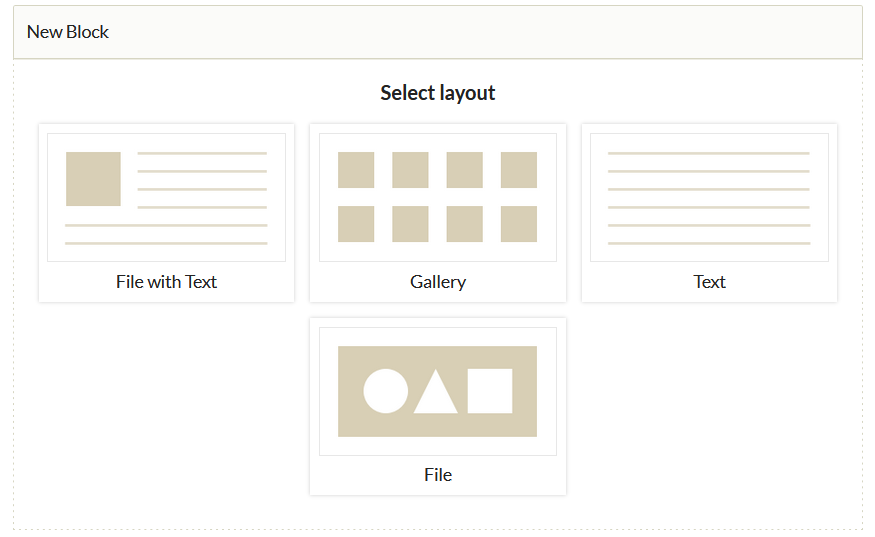
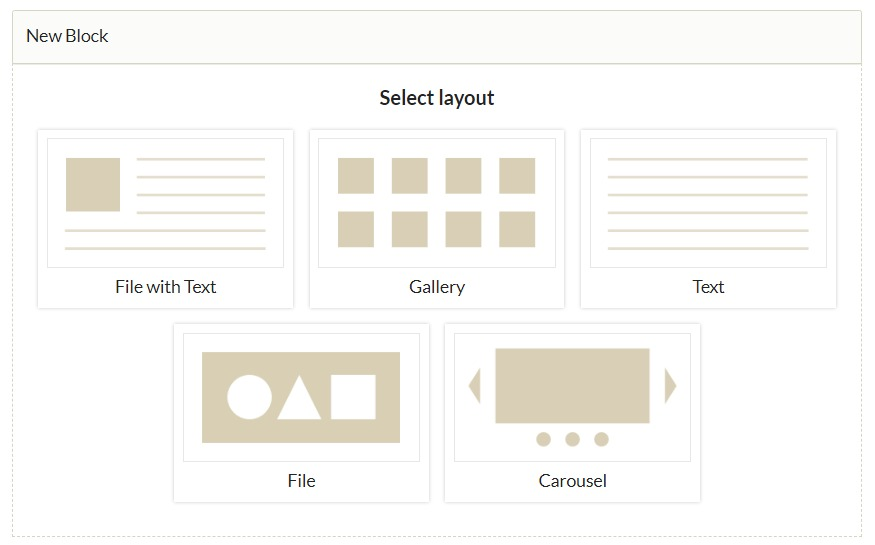
add carousel info to exhibit builder doc

diff --git a/docs/Plugins/ExhibitBuilder.md b/docs/Plugins/ExhibitBuilder.md
@@ -90,6 +90,8 @@ The **Text** block allows you to create a section of text which spans the width 
 
 The **File** block allows you to add larger files as a separate block.
 
+The **Carousel** block creates a slidehow of item files as thumbnails, square thumbnails, or as the full size file. You can pair the file with a caption and/or the item title, and text can be positioned left, right, or center. You can feature up to ten items per slide and adjust the scrolling speed and duration of the slides.
+
 ![Select block dialog with options as described above](../doc_files/plugin_images/eb_selectblock.png)
 
 To add a content block, select the layout you want in the New Block dialog box. Once you have selected the kind you want, click the "Add new content block" button. You will have a new block on the page to configure your content.
@@ -138,13 +140,13 @@ Exhibit text can be formatted using the [text editor bar](../Content/Using_HTML_
 
 ### Layout Options
 
-Both the File with Text and Gallery blocks include layout options to change the look of the exhibit page. To access these options, click the black triangle button to the right of the Layout Options text at the bottom of the block. This will reveal dropdown menus with options for changing the layout.
+The File with Text, Gallery, and Carousel blocks include layout options to change the look of the exhibit page. To access these options, click the black triangle button to the right of the Layout Options text at the bottom of the block. This will reveal dropdown menus with options for changing the layout.
 
 The **File with Text** block has the following options, all of which are drop-down menus (options listed in parentheses after the dropdown label):
 
-- File Position (left, right): position of the file relative to the text block.
-- File Size (full-size, thumbnail, square thumbnail): 
-- Captions position (center, left, right): the position of the file's caption relative to the file (not the text block)
+- File Position (left, right): a dropdown to select the position of the file relative to the text block.
+- File Size (full-size, thumbnail, square thumbnail): a dropdown to select the item file size.
+- Captions position (center, left, right): a dropdown to select the position of the file's caption relative to the file (not the text block)
 Whatever you select affects all of the files for that block equally. The text in this block will stay fixed to the right or left of the file, but will wrap below if the length of the text exceeds the height of the file.
 
 ![File with Text block layout options](../doc_files/plugin_images/eb_fwtLayout.png)
@@ -152,20 +154,36 @@ Whatever you select affects all of the files for that block equally. The text in
 
 The **Gallery** block has the following options, all of which are drop-down menus (options listed in parentheses after the dropdown label): 
 
-- Showcase File Position (no showcase file, left, right): a showcase file is full-size, while the rest of the gallery files are thumbnails. 
-- Gallery position (left, right): position of the gallery files relative to the showcase file. If there is no showcase file, the gallery will use the full width of the page.
-- Gallery File Size (square thumbnail, thumbnail): for all files in the gallery except the showcase file.
-- Captions Position (center, left, right): the position of the file's caption relative to its file.
+- Showcase File Position (no showcase file, left, right): a dropdown to selec the position of the showcase file. A showcase file is full-size, while the rest of the gallery files are thumbnails. 
+- Gallery position (left, right): a dropdown to select the position of the gallery files relative to the showcase file. If there is no showcase file, the gallery will use the full width of the page.
+- Gallery File Size (square thumbnail, thumbnail): a dropdown to select the file size for all files in the gallery except the showcase file.
+- Captions Position (center, left, right): a dropdown to select the position of the file's caption relative to its file.
 
 ![Gallery block layout options](../doc_files/plugin_images/eb_gLayout.png)
 
 The **File** block has the following options, all of which are drop-down menus (options listed in parentheses after the dropdown label): 
 
-- File Position (left, right, center): position of the file relative to page margins.
-- File Size (full-size, thumbnail, square thumbnail): 
-- Captions position (center, left, right): the position of the file's caption relative to page margins (not the file)
+- File Position (left, right, center): a dropdown to select the position of the file relative to page margins.
+- File Size (full-size, thumbnail, square thumbnail): a dropdown to select the item file size.
+- Captions position (center, left, right): a dropdown to select the position of the file's caption relative to page margins (not the file)
 
 ![File block layout options](../doc_files/plugin_images/eb_fLayout.png)
+
+The **Carousel** block has the following options, which are a mix of text boxes, drop-down menus, and checkboxes:
+
+- Carousel title: a text field to enter your title. 
+- Items per slide (1-10): a dropdown to select the number of items represented on each slide in the carousel.
+- Item file size (thumbnail, square thumbnail, full size): a dropdown to select the item file size.
+- Show item title: a checkbox to include the item title on the slide along with the file.
+- Overlay caption: a checkbox to overlay the caption on the file (which may require adjusting the CSS settings).
+- Caption/title position (center, left, right): a dropdown to select the position of included text relative to the file.
+- Stretch image to fill (none, fill width, fill height, fill entire slide): a dropdown to set the image fill.
+- Scrolling speed: a text field that sets the speed for the scrolling animation. May be "fast", "slow", or a time in milliseconds. Default is 400.
+- Auto slide duration: a text field that sets the time in milliseconds to pause before auto advance. Set to 0 to turn off.
+- Loop: a checkbox to make the carousel continually replay.
+- Fade between slides: a checkbox that adds a fade effect between slides, but it only works with 1 item per slide.
+
+![Carousel block layout opion](../doc_files/plugin_images/eb_cLayout.png)
 
 ### Additional Layouts
 Some plugins include their own Exhibit Builder content block layouts.
